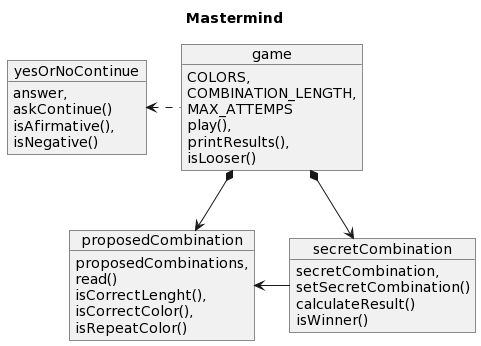
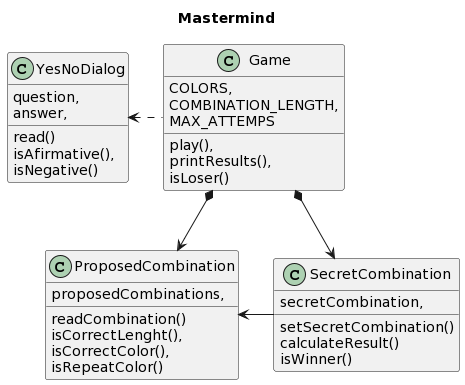
updating mastermind

diff --git a/21-js-basadaObjetos/MasterMind/MasterMindv0.3(Diseño-UML)/app.js b/21-js-basadaObjetos/MasterMind/MasterMindv0.3(Diseño-UML)/app.js
@@ -25,19 +25,19 @@ function initGame() {
             this.secretCombination.setSecretCombination(this.COLORS, this.COMBINATION_LENGTH);
             let gameFinished = false;
             do {
-                this.proposedCombination.read(`Propose a combination:`, this.COLORS, this.COMBINATION_LENGTH);
+                this.proposedCombination.readCombination(`Propose a combination:`, this.COLORS, this.COMBINATION_LENGTH);
                 this.printResults(this.proposedCombination.proposedCombinations)
-                if (this.secretCombination.isWinner(this.proposedCombination.proposedCombinations[this.proposedCombination.proposedCombinations.length - 1], this.COMBINATION_LENGTH)) {
+                if (this.secretCombination.isWinner(this.proposedCombination.proposedCombinations[this.proposedCombination.proposedCombinations.length - 1])) {
                     console.writeln(`¡¡¡You've won!!! ;-)!!!`);
                     gameFinished = true;
-                } else if (this.isLooser()) {
+                } else if (this.isLoser()) {
                     console.writeln(`¡¡¡You've lost!!! :-(!!!`);
                     gameFinished = true;
                 }
             } while (!gameFinished);
         },
 
-        isLooser() {
+        isLoser() {
             return this.proposedCombination.proposedCombinations.length === this.MAX_ATTEMPTS;
         },
 
@@ -90,8 +90,8 @@ function initSecretCombination() {
             return parseInt(Math.random() * COLORS.length);
         },
 
-        isWinner(combination, length) {
-            return this.calculateResults(combination).blacks === length;
+        isWinner(combination) {
+            return this.calculateResults(combination).blacks === this.secretCombination.length;
         },
     }
 }
@@ -100,7 +100,7 @@ function initCombination() {
     return {
         proposedCombinations: [],
 
-        read(title, COLORS, COMBINATION_LENGTH) {
+        readCombination(title, COLORS, COMBINATION_LENGTH) {
             let combination;
             let validCombination;
             do {
